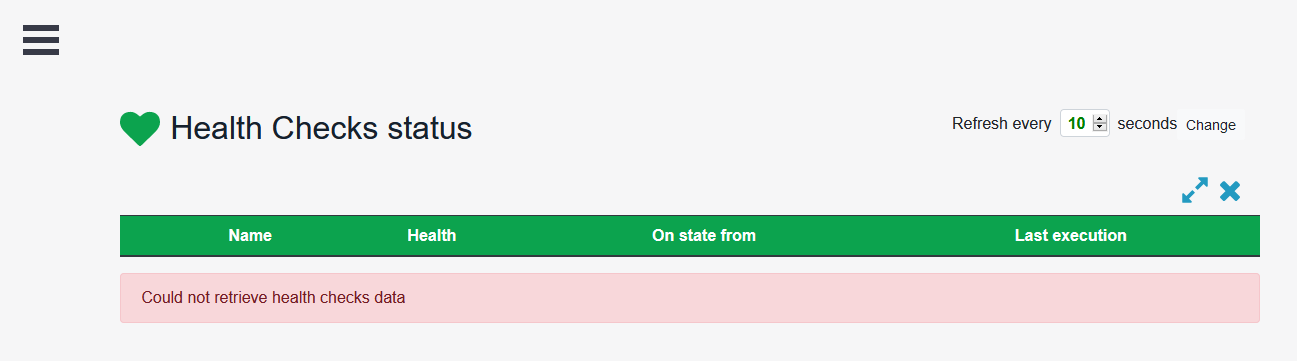
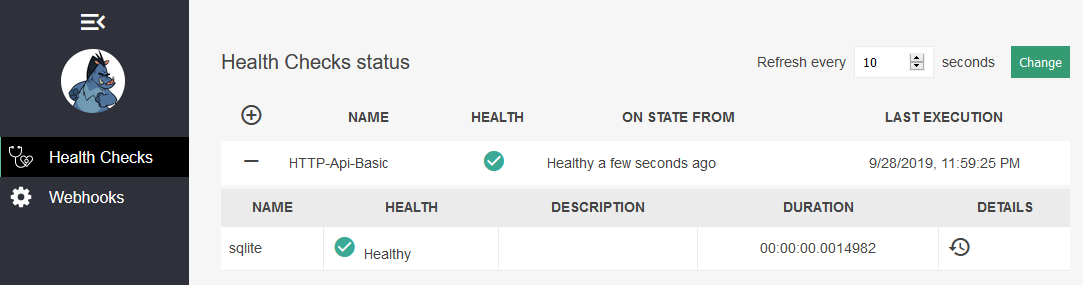
Fix health checks UI implementation and update docs

diff --git a/src/TimeTracker/Startup.cs b/src/TimeTracker/Startup.cs
@@ -45,7 +45,7 @@ namespace TimeTracker
             services.AddHealthChecks()
                 .AddSqlite(Configuration.GetConnectionString("DefaultConnection"));
 
-            //services.AddHealthChecksUI();
+            services.AddHealthChecksUI();
         }
 
         // This method gets called by the runtime. Use this method to configure the HTTP request pipeline.

diff --git a/docs/09-versioning-limiting-monitoring.md b/docs/09-versioning-limiting-monitoring.md
@@ -365,8 +365,6 @@ Wouldn't it be nice to have a status page like Azure, Facebook and other service
 services.AddHealthChecksUI();
 ```
 
-*NOTE: Unfortunately, the line above is causing issue with .NET Core Preview 7. It's related to Entity Framework Core (again) and the underlined Sqlite database used for saving health checks. You can read the rest of this section, but won't be able to implement it yet if using Preview 7.*
-
 ```c#
 // Modify app.UseEndpoints, and add UI middleware before it:
 app.UseHealthChecksUI();
@@ -389,7 +387,7 @@ Also, add the following settings to `appsettings.json` file:
 "HealthChecks": [
     {
     "Name": "HTTP-Api-Basic",
-    "Uri": "/health"
+    "Uri": "https://localhost:44383/health"
     }
 ],
 "EvaluationTimeOnSeconds": 10,
@@ -400,8 +398,6 @@ Also, add the following settings to `appsettings.json` file:
 If you browse `/healthchecks-ui` now, you'll get the status page.
 
 ![Health checks status page](images/healthchecks-status.png)
-
-*TODO: Unfortunately, `AspNetCore.HealthChecks.UI` is using EF Core under the cover, and it's more or less broken in Preview 6-8, hence the error message in screenshot above.*
 
 ### Other monitoring types
 
